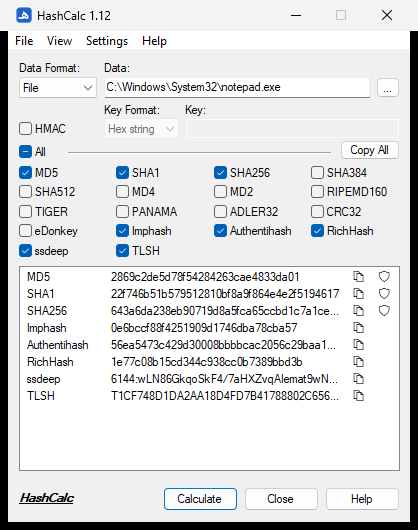
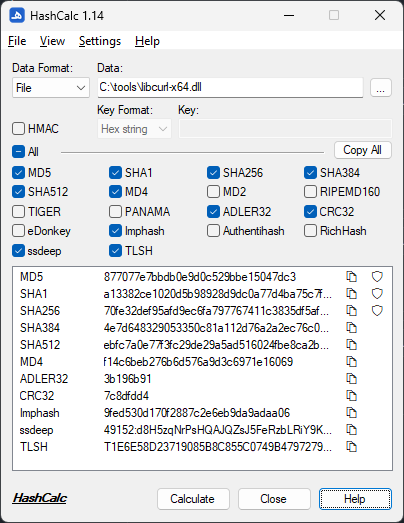
Update About

diff --git a/src/gui/main.cpp b/src/gui/main.cpp
@@ -56,6 +56,7 @@ constexpr wchar_t kGlyphDone[] = L"\xE73E";
 constexpr wchar_t kGlyphShield[] = L"\xEA18";
 
 constexpr wchar_t kVirusTotalUrl[] = L"https://www.virustotal.com/gui/file/";
+constexpr wchar_t kRepoUrl[] = L"https://github.com/alternat0r/hashcalc";
 
 // Combo box item indices
 enum DataFormat { DataFile = 0, DataText = 1, DataHex = 2 };
@@ -1228,14 +1229,32 @@ void OnHelp(HWND dlg)
         L"HashCalc Help", MB_ICONINFORMATION);
 }
 
+// TaskDialog instead of MessageBox so the repository link is clickable
+HRESULT CALLBACK AboutCallback(HWND hwnd, UINT msg, WPARAM, LPARAM lParam, LONG_PTR)
+{
+    if (msg == TDN_HYPERLINK_CLICKED)
+        ShellExecuteW(hwnd, L"open", reinterpret_cast<LPCWSTR>(lParam), nullptr, nullptr, SW_SHOWNORMAL);
+    return S_OK;
+}
+
 void OnAbout(HWND dlg)
 {
-    MessageBoxW(dlg,
-        L"HashCalc " VERSION_STR L"\n\n"
+    const std::wstring content =
         L"File, folder and text hash calculator.\n\n"
         L"Algorithms: MD2, MD4, MD5, SHA1, SHA256, SHA384, SHA512, RIPEMD160, "
-        L"PANAMA, TIGER, ADLER32, CRC32 and eDonkey/eMule, with optional HMAC.",
-        L"About HashCalc", MB_ICONINFORMATION);
+        L"PANAMA, TIGER, ADLER32, CRC32 and eDonkey/eMule, with optional HMAC.\n\n"
+        L"<a href=\"" + std::wstring(kRepoUrl) + L"\">" + kRepoUrl + L"</a>";
+
+    TASKDIALOGCONFIG config = { sizeof(config) };
+    config.hwndParent = dlg;
+    config.dwFlags = TDF_ENABLE_HYPERLINKS | TDF_ALLOW_DIALOG_CANCELLATION | TDF_POSITION_RELATIVE_TO_WINDOW;
+    config.dwCommonButtons = TDCBF_OK_BUTTON;
+    config.pszWindowTitle = L"About HashCalc";
+    config.pszMainIcon = TD_INFORMATION_ICON;
+    config.pszMainInstruction = L"HashCalc " VERSION_STR;
+    config.pszContent = content.c_str();
+    config.pfCallback = AboutCallback;
+    TaskDialogIndirect(&config, nullptr, nullptr, nullptr);
 }
 
 void OnToggleShellIntegration(HWND dlg)
